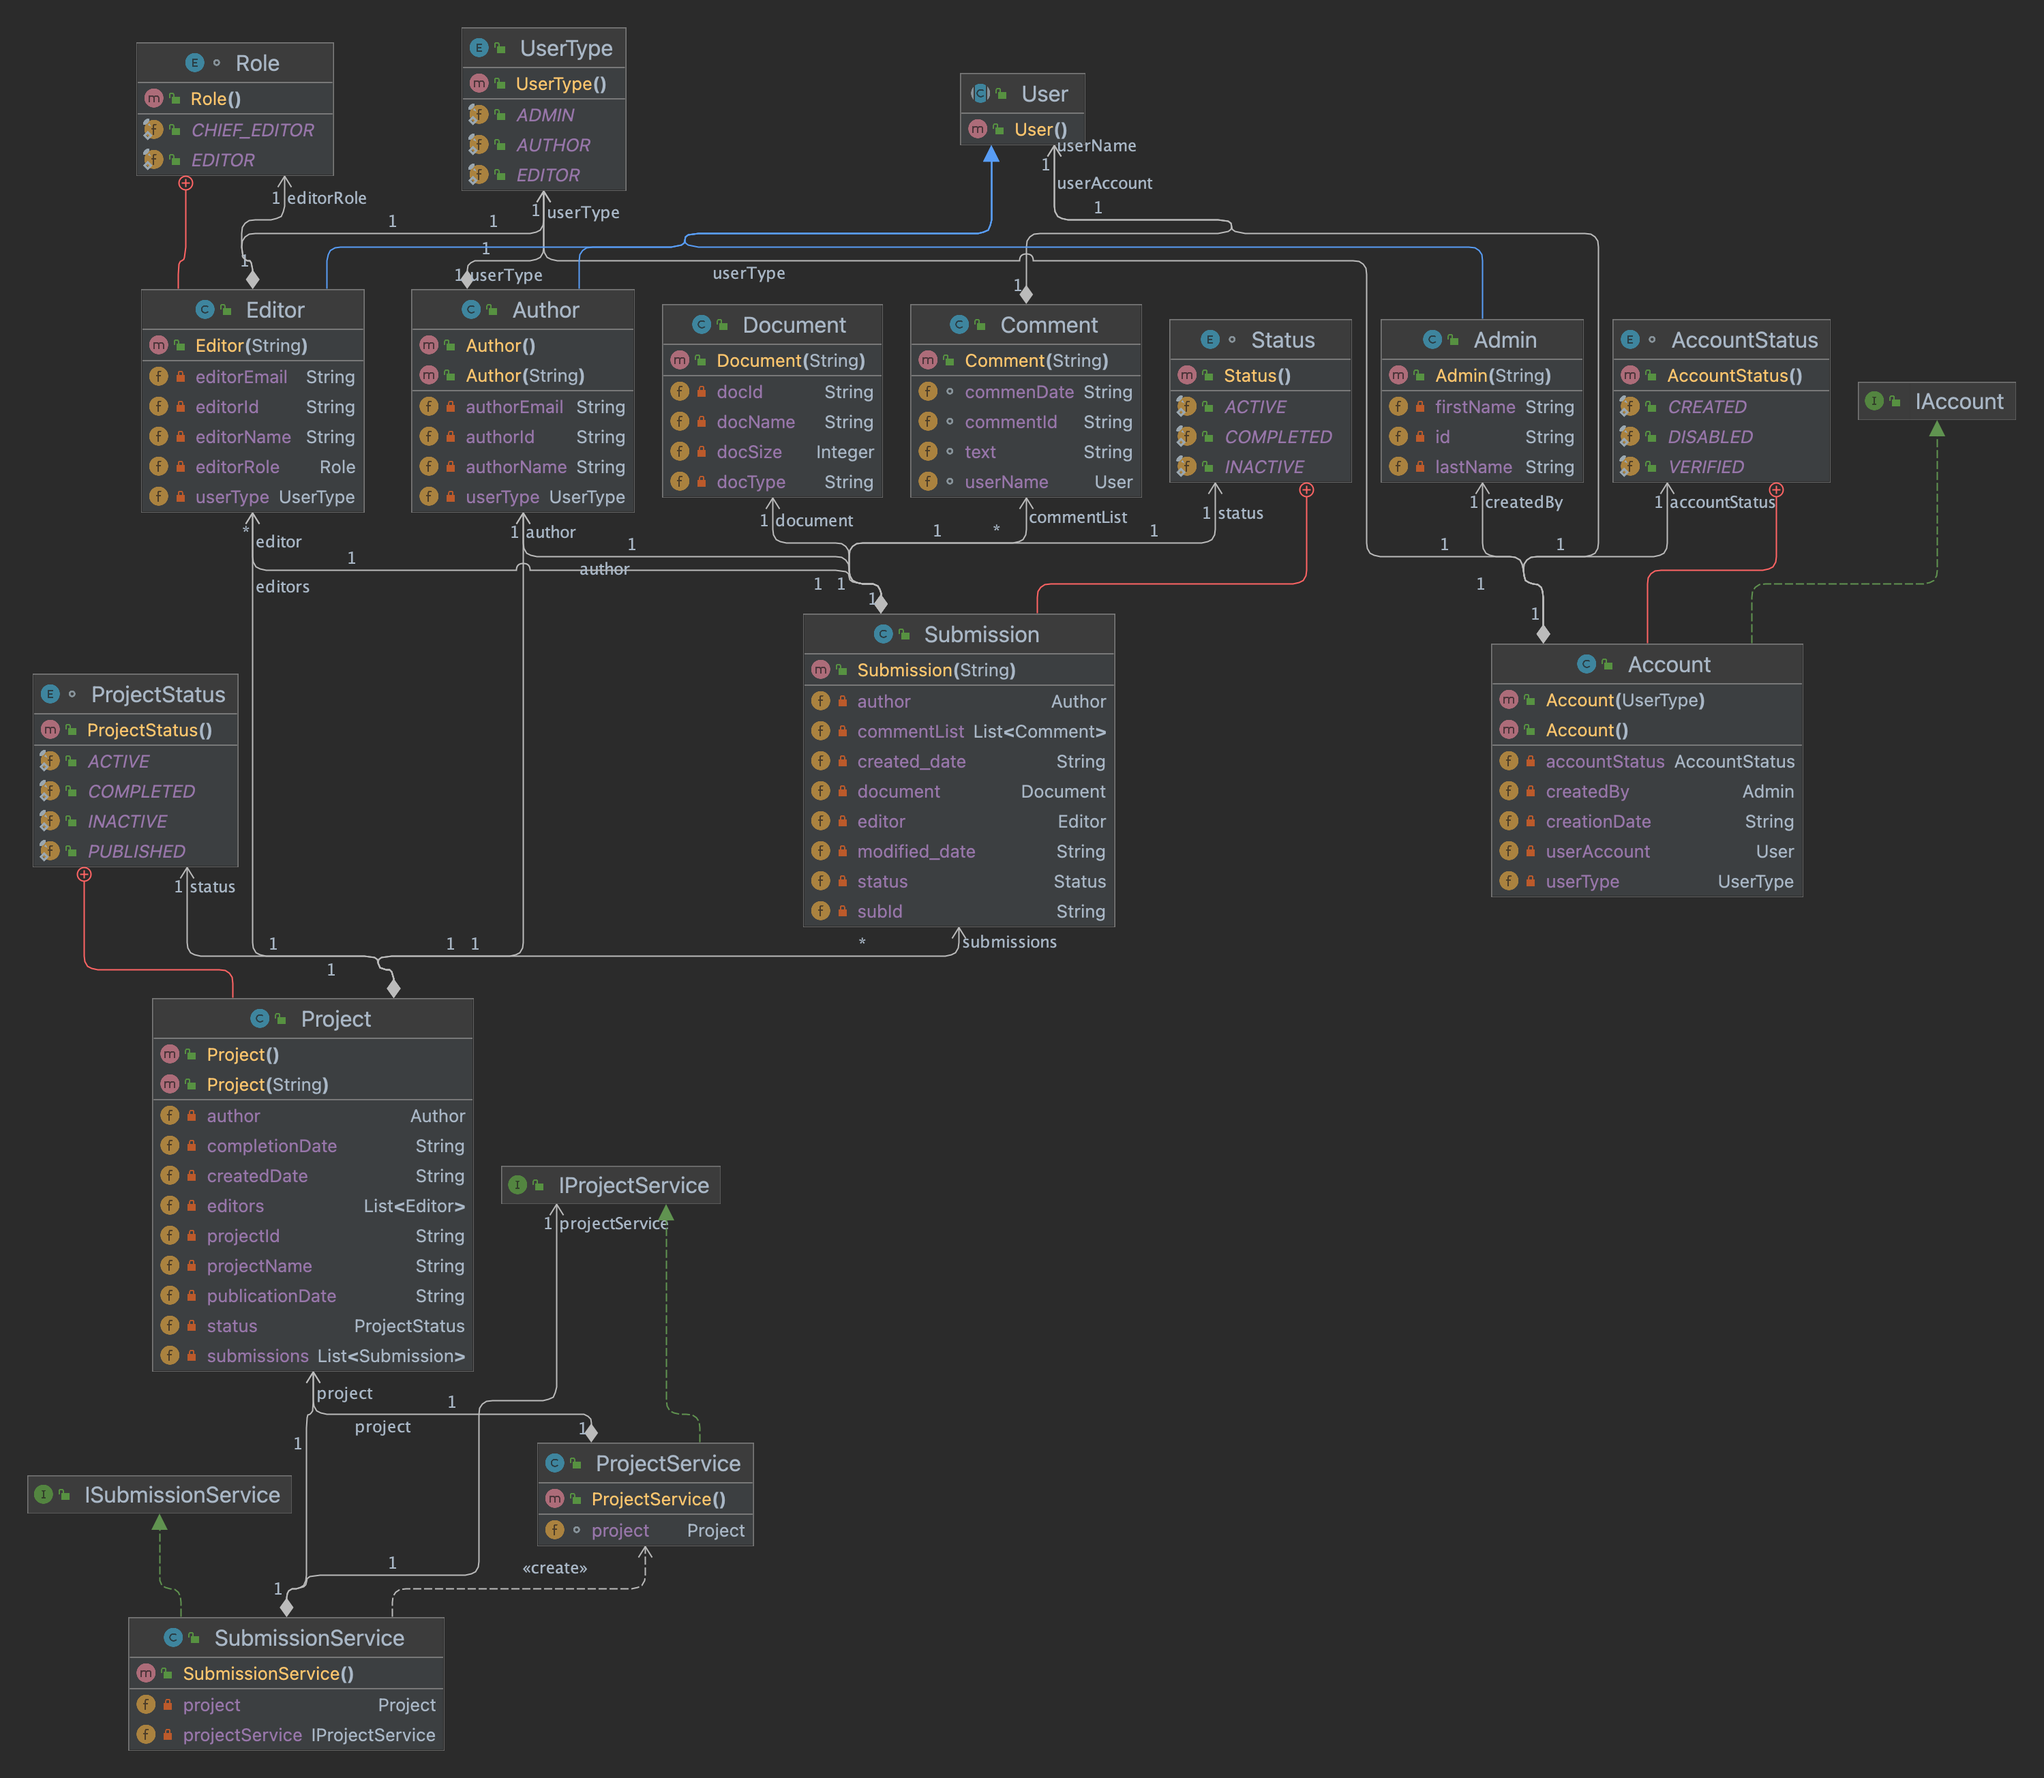
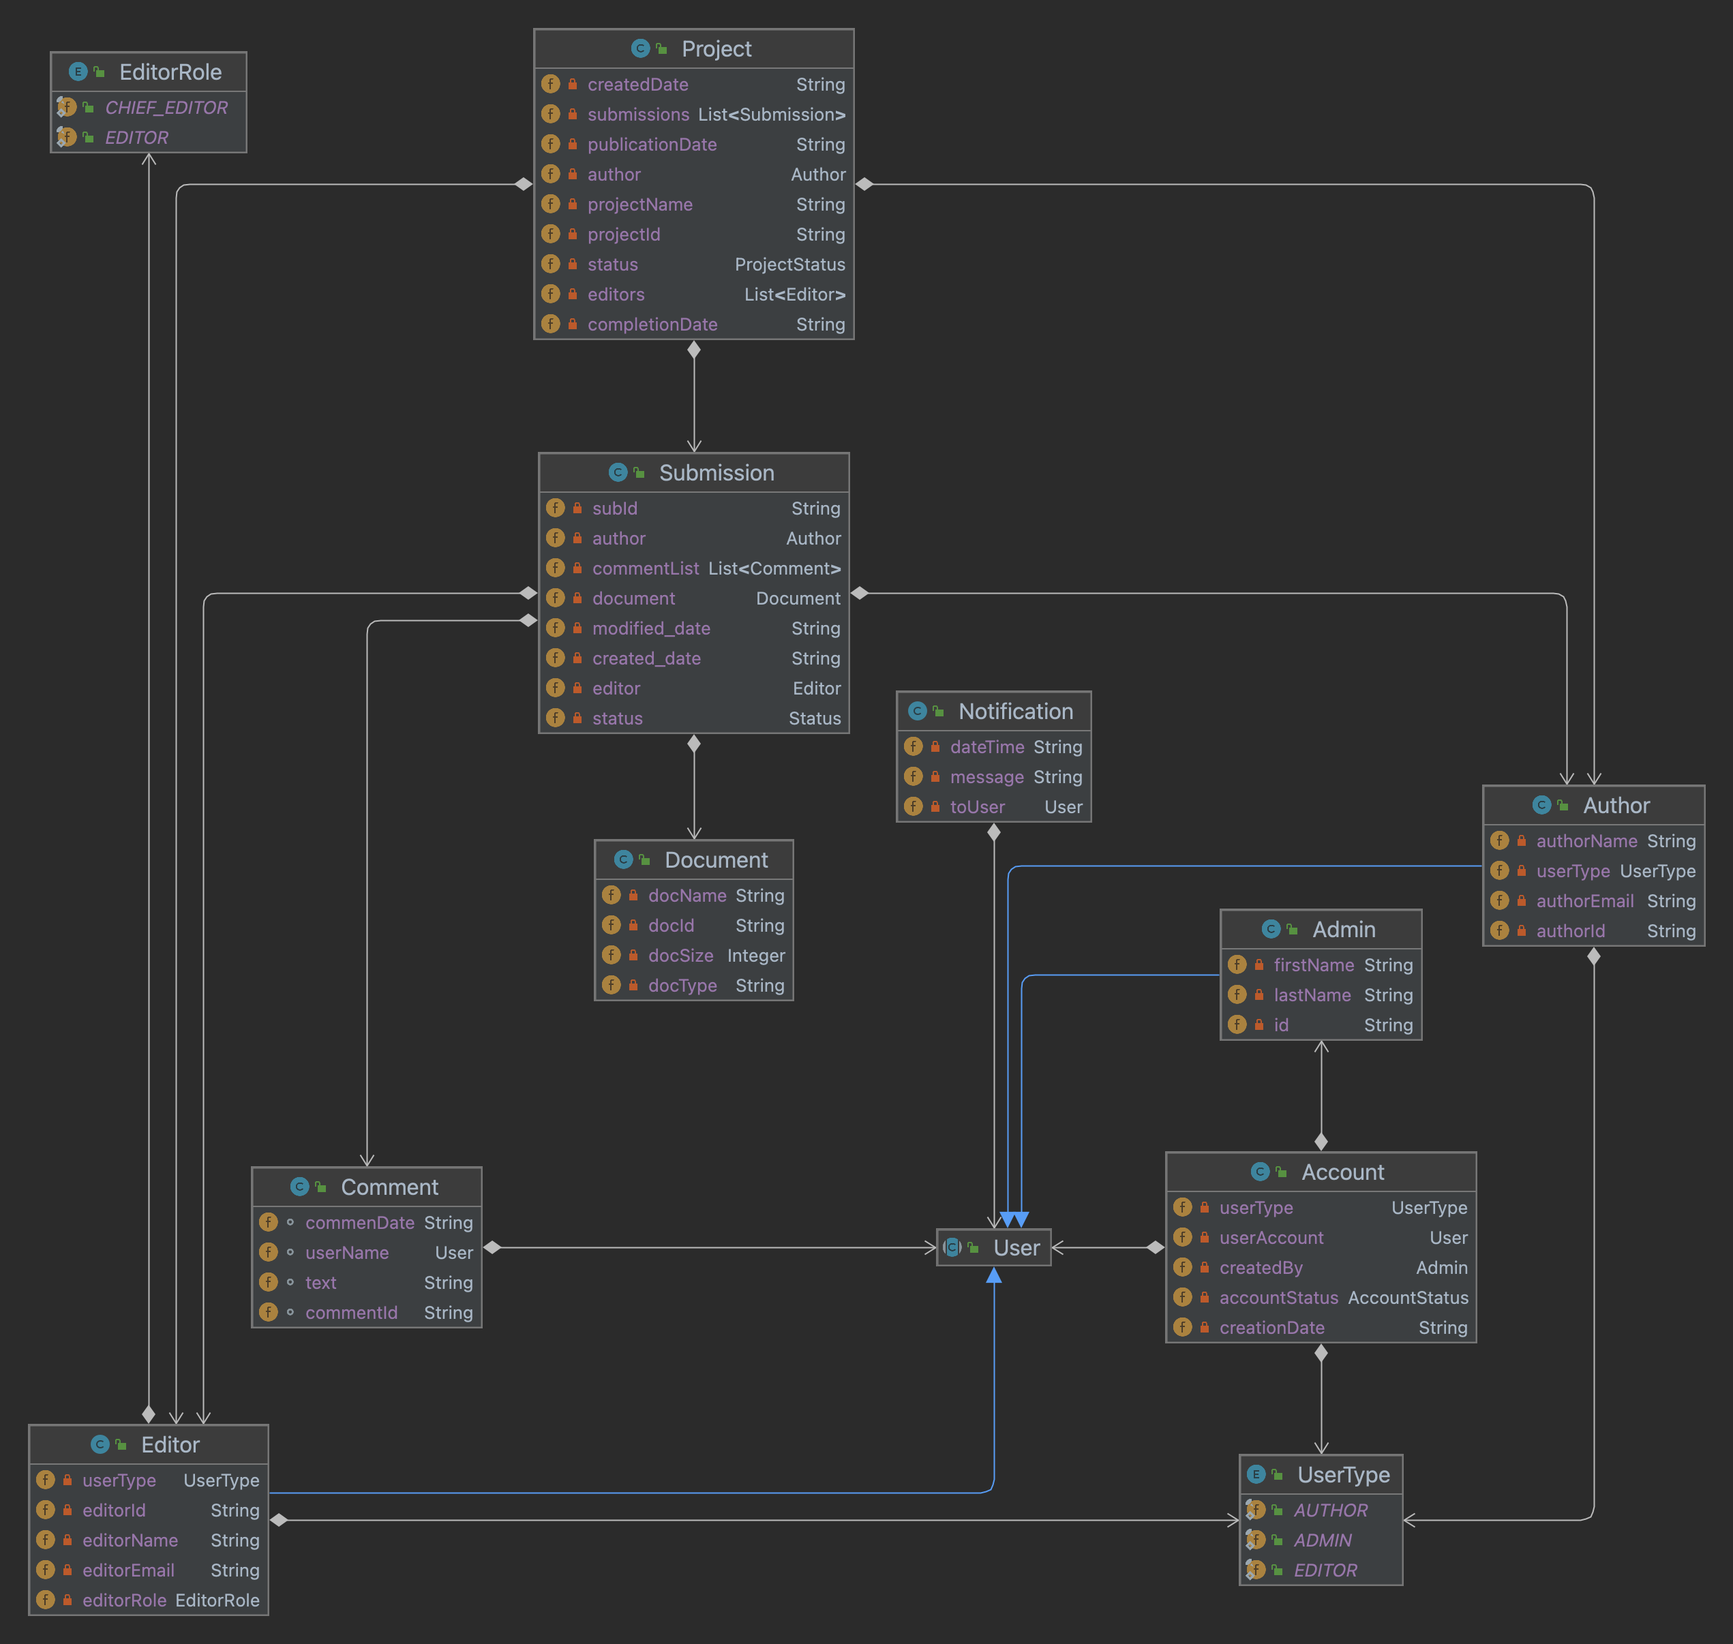
removed service changes

diff --git a/ePublisher/src/users/Editor.java b/ePublisher/src/users/Editor.java
@@ -2,17 +2,14 @@ package users;
 
 public class Editor extends User{
 
-    enum Role{
-        CHIEF_EDITOR,
-        EDITOR
-    }
+
     private String editorId;
 
     private String editorName;
 
     private String editorEmail;
 
-    private Role editorRole;
+    private EditorRole editorRole;
 
     private UserType userType;
 
@@ -44,11 +41,11 @@ public class Editor extends User{
         this.editorEmail = editorEmail;
     }
 
-    public Role getEditorRole() {
+    public EditorRole getEditorRole() {
         return editorRole;
     }
 
-    public void setEditorRole(Role editorRole) {
+    public void setEditorRole(EditorRole editorRole) {
         this.editorRole = editorRole;
     }
 

diff --git a/ePublisher/src/notification/Notification.java b/ePublisher/src/notification/Notification.java
@@ -1,0 +1,14 @@
+package notification;
+
+import users.User;
+
+public class Notification {
+
+    private User toUser;
+
+    private String message;
+
+    private String dateTime;
+
+
+}

diff --git a/ePublisher/src/users/EditorRole.java b/ePublisher/src/users/EditorRole.java
@@ -1,0 +1,8 @@
+package users;
+
+public enum EditorRole {
+
+        CHIEF_EDITOR,
+        EDITOR
+    
+}
